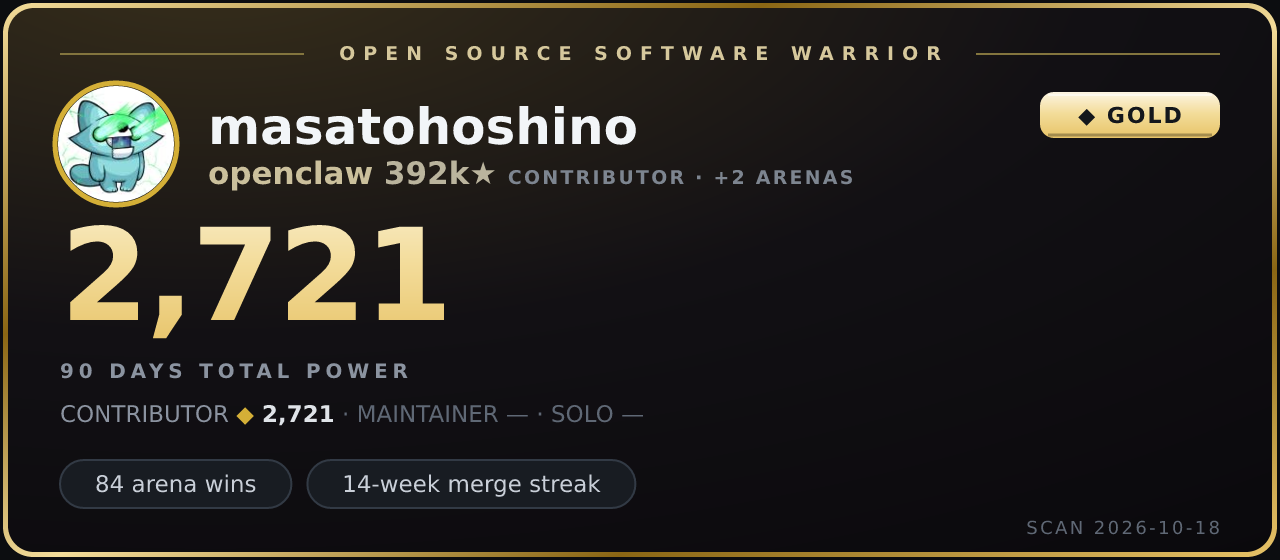
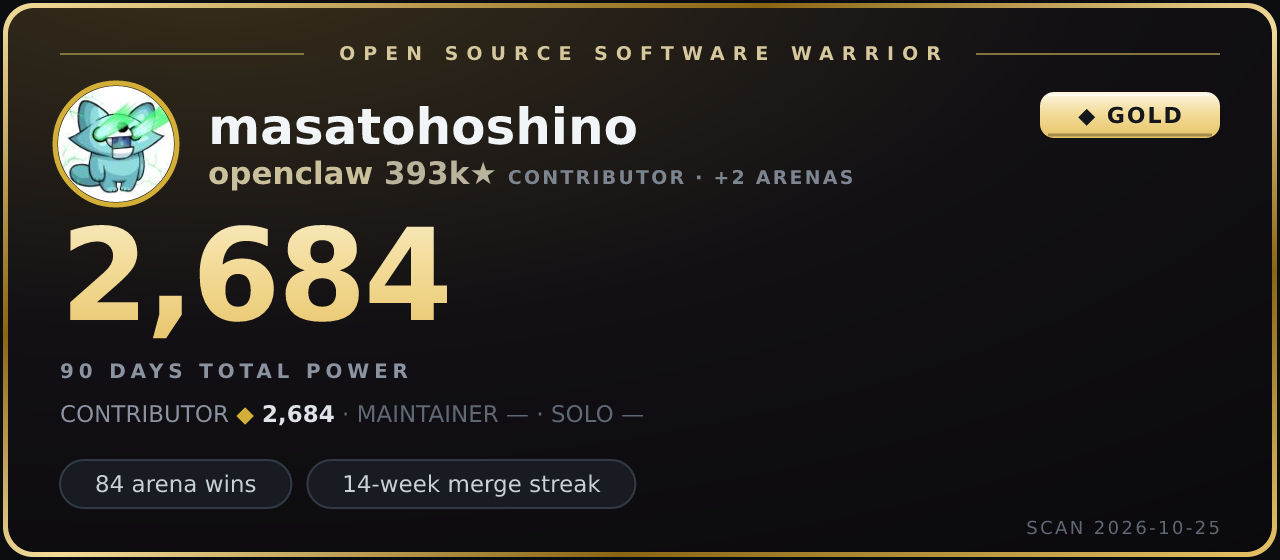
⚡ warrior scan 2026-10-25

Changed region(s): [[0.1562, 0.3946, 0.375, 0.5768], [0.2188, 0.7286, 0.2812, 0.7589], [0.3125, 0.3036, 0.3438, 0.3339]]

diff --git a/warrior/site/share-2026-10-25.html b/warrior/site/share-2026-10-25.html
@@ -1,0 +1,109 @@
+<!doctype html>
+<html lang="en">
+<head>
+<meta charset="utf-8">
+<meta name="viewport" content="width=device-width, initial-scale=1">
+<title>⚡ masatohoshino — OSS power 2,684 (GOLD)</title>
+<meta property="og:type" content="website">
+<meta property="og:title" content="⚡ masatohoshino — OSS power 2,684 (GOLD)">
+<meta property="og:description" content="Open Source Software Warrior — every contribution counts. Measured from public GitHub events.">
+<meta property="og:image" content="https://masatohoshino.github.io/masatohoshino/card-2026-10-25.png">
+<meta property="og:url" content="https://masatohoshino.github.io/masatohoshino/share-2026-10-25.html">
+<meta name="twitter:card" content="summary_large_image">
+<meta name="twitter:image" content="https://masatohoshino.github.io/masatohoshino/card-2026-10-25.png">
+<style>
+ body{margin:0;background:#0c0d10;color:#e6e4df;font-family:system-ui,sans-serif;
+   display:flex;flex-direction:column;align-items:center;gap:22px;padding:48px 16px}
+ .card svg{max-width:100%;height:auto}
+ a.btn{color:#0c0d10;background:#e6e4df;border-radius:10px;padding:10px 22px;
+   text-decoration:none;font-weight:700}
+ a{color:#9fb6d0} p{color:#8f8d86;font-size:13px;max-width:52ch;text-align:center}
+</style>
+</head>
+<body>
+<div class="card"><svg xmlns="http://www.w3.org/2000/svg" width="640" height="280"
+  viewBox="0 0 640 280" role="img" aria-label="OSS Warrior card for masatohoshino">
+  <defs>
+    <linearGradient id="frame" x1="0" y1="0" x2="1" y2="1">
+      <stop offset="0" stop-color="#f3dc9a"/><stop offset=".3" stop-color="#8a6614"/>
+      <stop offset=".52" stop-color="#f3dc9a"/><stop offset=".74" stop-color="#8a6614"/>
+      <stop offset="1" stop-color="#e7c368"/>
+    </linearGradient>
+    <radialGradient id="bg" cx="16%" cy="-10%" r="140%">
+      <stop offset="0" stop-color="#382f1b"/>
+      <stop offset=".5" stop-color="#121014"/><stop offset="1" stop-color="#0a090c"/>
+    </radialGradient>
+    <linearGradient id="num" x1="0" y1="0" x2="0" y2="1">
+      <stop offset="0" stop-color="#f8ecc7"/>
+      <stop offset=".42" stop-color="#f3dc9a"/><stop offset="1" stop-color="#e7c368"/>
+    </linearGradient>
+    <linearGradient id="plaque" x1="0" y1="0" x2="0" y2="1">
+      <stop offset="0" stop-color="#fcf5e3"/>
+      <stop offset=".46" stop-color="#f3dc9a"/><stop offset="1" stop-color="#e7c368"/>
+    </linearGradient>
+    <clipPath id="ava"><circle cx="58" cy="72" r="29"/></clipPath>
+  </defs>
+
+  <rect x="1.5" y="1.5" width="637" height="277" rx="15" fill="url(#frame)"/>
+  <rect x="4" y="4" width="632" height="272" rx="13" fill="url(#bg)"/>
+  
+
+  <text x="320" y="30" text-anchor="middle" font-family="ui-monospace,SFMono-Regular,Menlo,monospace" font-size="9.5"
+    font-weight="600" letter-spacing="4" fill="#d6c89c">OPEN SOURCE SOFTWARE WARRIOR</text>
+  <line x1="30" y1="27" x2="152" y2="27" stroke="#83753e" stroke-width="1"/>
+  <line x1="488" y1="27" x2="610" y2="27" stroke="#83753e" stroke-width="1"/>
+
[1 lines of base64/hex data omitted]
+  <circle cx="58" cy="72" r="30.5" fill="none" stroke="#d4af37" stroke-width="2.5"/>
+  
+
+  <text x="104" y="72" font-family="system-ui,-apple-system,'Segoe UI',sans-serif" font-size="25" font-weight="800"
+    fill="#f2f5f8">masatohoshino</text>
+  
+    <text x="104" y="92" font-family="system-ui,-apple-system,'Segoe UI',sans-serif" font-size="15.5" font-weight="700"
+      fill="#cbc09c">openclaw
+      <tspan font-weight="600" fill="#bab49d"> 393k★</tspan>
+      <tspan font-size="9.5" letter-spacing="1.1" fill="#7d8590">  CONTRIBUTOR · +2 ARENAS</tspan>
+    </text>
+
+  <g>
+    <rect x="520" y="46" width="90" height="23" rx="7" fill="url(#plaque)"/>
+    <line x1="524" y1="47.5" x2="606" y2="47.5"
+      stroke="rgba(255,255,255,.55)" stroke-width="1"/>
+    <line x1="524" y1="67.5" x2="606" y2="67.5"
+      stroke="rgba(0,0,0,.3)" stroke-width="1.5"/>
+    <text x="565" y="61.5" text-anchor="middle" font-family="ui-monospace,SFMono-Regular,Menlo,monospace"
+      font-size="11" font-weight="800" letter-spacing="1" fill="#14171c">◆ GOLD</text>
+  </g>
+
+  <text x="30" y="160" font-family="system-ui,-apple-system,'Segoe UI',sans-serif" font-size="64" font-weight="800"
+    letter-spacing="-1.5" fill="url(#num)">2,684</text>
+  <text x="30" y="189" font-family="ui-monospace,SFMono-Regular,Menlo,monospace" font-size="10" letter-spacing="2.4"
+    font-weight="600" fill="#8b93a0">90 DAYS TOTAL POWER</text>
+
+  <text x="30" y="211" font-family="ui-monospace,SFMono-Regular,Menlo,monospace" font-size="11.5"><tspan fill="#8b93a0">CONTRIBUTOR </tspan><tspan fill="#d4af37">◆</tspan><tspan fill="#dfe3e8" font-weight="600"> 2,684</tspan><tspan fill="#5f6875"> · </tspan><tspan fill="#5f6875">MAINTAINER —</tspan><tspan fill="#5f6875"> · </tspan><tspan fill="#5f6875">SOLO —</tspan></text>
+
+  
+  
+    <g transform="translate(30,230)">
+      <rect width="115.7" height="24" rx="12" fill="#181c22"
+        stroke="#323a45"/>
+      <text x="57.85" y="16" text-anchor="middle" font-family="system-ui,-apple-system,'Segoe UI',sans-serif"
+        font-size="11.5" fill="#c9cfd8">84 arena wins</text>
+    </g>
+    <g transform="translate(153.7,230)">
+      <rect width="164" height="24" rx="12" fill="#181c22"
+        stroke="#323a45"/>
+      <text x="82" y="16" text-anchor="middle" font-family="system-ui,-apple-system,'Segoe UI',sans-serif"
+        font-size="11.5" fill="#c9cfd8">14-week merge streak</text>
+    </g>
+
+  <text x="610" y="267" text-anchor="end" font-family="ui-monospace,SFMono-Regular,Menlo,monospace" font-size="9"
+    letter-spacing="1.2" fill="#5f6875">SCAN 2026-10-25</text>
+</svg></div>
+<a class="btn" href="https://x.com/intent/post?text=%E2%9A%A1%20My%20OSS%20power%20level%3A%202%2C684%20%E2%80%94%20RANK%20GOLD%0AEvery%20contribution%20counts.&amp;url=https%3A%2F%2Fmasatohoshino.github.io%2Fmasatohoshino%2Fshare-2026-10-25.html">Post to X</a>
+<p>Every figure derives from public GitHub events — reproducible by anyone.<br>
+<a href="https://github.com/masatohoshino/oss-warrior">⚡ Measure your own power level</a> ·
+<a href="scouter.html">🔍 Scan any account</a></p>
+</body>
+</html>

diff --git a/warrior/site/index.html b/warrior/site/index.html
@@ -3,14 +3,14 @@
 <head>
 <meta charset="utf-8">
 <meta name="viewport" content="width=device-width, initial-scale=1">
-<title>⚡ masatohoshino — OSS power 2,721 (GOLD)</title>
+<title>⚡ masatohoshino — OSS power 2,684 (GOLD)</title>
 <meta property="og:type" content="website">
-<meta property="og:title" content="⚡ masatohoshino — OSS power 2,721 (GOLD)">
+<meta property="og:title" content="⚡ masatohoshino — OSS power 2,684 (GOLD)">
 <meta property="og:description" content="Open Source Software Warrior — every contribution counts. Measured from public GitHub events.">
-<meta property="og:image" content="https://masatohoshino.github.io/masatohoshino/card-2026-10-18.png">
-<meta property="og:url" content="https://masatohoshino.github.io/masatohoshino/share-2026-10-18.html">
+<meta property="og:image" content="https://masatohoshino.github.io/masatohoshino/card-2026-10-25.png">
+<meta property="og:url" content="https://masatohoshino.github.io/masatohoshino/share-2026-10-25.html">
 <meta name="twitter:card" content="summary_large_image">
-<meta name="twitter:image" content="https://masatohoshino.github.io/masatohoshino/card-2026-10-18.png">
+<meta name="twitter:image" content="https://masatohoshino.github.io/masatohoshino/card-2026-10-25.png">
 <style>
  body{margin:0;background:#0c0d10;color:#e6e4df;font-family:system-ui,sans-serif;
    display:flex;flex-direction:column;align-items:center;gap:22px;padding:48px 16px}
@@ -62,7 +62,7 @@
   
     <text x="104" y="92" font-family="system-ui,-apple-system,'Segoe UI',sans-serif" font-size="15.5" font-weight="700"
       fill="#cbc09c">openclaw
-      <tspan font-weight="600" fill="#bab49d"> 392k★</tspan>
+      <tspan font-weight="600" fill="#bab49d"> 393k★</tspan>
       <tspan font-size="9.5" letter-spacing="1.1" fill="#7d8590">  CONTRIBUTOR · +2 ARENAS</tspan>
     </text>
 
@@ -77,11 +77,11 @@
   </g>
 
   <text x="30" y="160" font-family="system-ui,-apple-system,'Segoe UI',sans-serif" font-size="64" font-weight="800"
-    letter-spacing="-1.5" fill="url(#num)">2,721</text>
+    letter-spacing="-1.5" fill="url(#num)">2,684</text>
   <text x="30" y="189" font-family="ui-monospace,SFMono-Regular,Menlo,monospace" font-size="10" letter-spacing="2.4"
     font-weight="600" fill="#8b93a0">90 DAYS TOTAL POWER</text>
 
-  <text x="30" y="211" font-family="ui-monospace,SFMono-Regular,Menlo,monospace" font-size="11.5"><tspan fill="#8b93a0">CONTRIBUTOR </tspan><tspan fill="#d4af37">◆</tspan><tspan fill="#dfe3e8" font-weight="600"> 2,721</tspan><tspan fill="#5f6875"> · </tspan><tspan fill="#5f6875">MAINTAINER —</tspan><tspan fill="#5f6875"> · </tspan><tspan fill="#5f6875">SOLO —</tspan></text>
+  <text x="30" y="211" font-family="ui-monospace,SFMono-Regular,Menlo,monospace" font-size="11.5"><tspan fill="#8b93a0">CONTRIBUTOR </tspan><tspan fill="#d4af37">◆</tspan><tspan fill="#dfe3e8" font-weight="600"> 2,684</tspan><tspan fill="#5f6875"> · </tspan><tspan fill="#5f6875">MAINTAINER —</tspan><tspan fill="#5f6875"> · </tspan><tspan fill="#5f6875">SOLO —</tspan></text>
 
   
   
@@ -99,9 +99,9 @@
     </g>
 
   <text x="610" y="267" text-anchor="end" font-family="ui-monospace,SFMono-Regular,Menlo,monospace" font-size="9"
-    letter-spacing="1.2" fill="#5f6875">SCAN 2026-10-18</text>
+    letter-spacing="1.2" fill="#5f6875">SCAN 2026-10-25</text>
 </svg></div>
-<a class="btn" href="https://x.com/intent/post?text=%E2%9A%A1%20My%20OSS%20power%20level%3A%202%2C721%20%E2%80%94%20RANK%20GOLD%0AEvery%20contribution%20counts.&amp;url=https%3A%2F%2Fmasatohoshino.github.io%2Fmasatohoshino%2Fshare-2026-10-18.html">Post to X</a>
+<a class="btn" href="https://x.com/intent/post?text=%E2%9A%A1%20My%20OSS%20power%20level%3A%202%2C684%20%E2%80%94%20RANK%20GOLD%0AEvery%20contribution%20counts.&amp;url=https%3A%2F%2Fmasatohoshino.github.io%2Fmasatohoshino%2Fshare-2026-10-25.html">Post to X</a>
 <p>Every figure derives from public GitHub events — reproducible by anyone.<br>
 <a href="https://github.com/masatohoshino/oss-warrior">⚡ Measure your own power level</a> ·
 <a href="scouter.html">🔍 Scan any account</a></p>

diff --git a/README.md b/README.md
@@ -30,7 +30,7 @@ and reusable parts intended for public release.
 Mostly for fun.
 
 <!-- oss-warrior:start -->
-[![OSS Warrior card](warrior/card.svg)](https://x.com/intent/post?text=%E2%9A%A1%20My%20OSS%20power%20level%3A%202%2C721%20%E2%80%94%20RANK%20GOLD%0AEvery%20contribution%20counts.&url=https%3A%2F%2Fmasatohoshino.github.io%2Fmasatohoshino%2Fshare-2026-10-18.html)
+[![OSS Warrior card](warrior/card.svg)](https://x.com/intent/post?text=%E2%9A%A1%20My%20OSS%20power%20level%3A%202%2C684%20%E2%80%94%20RANK%20GOLD%0AEvery%20contribution%20counts.&url=https%3A%2F%2Fmasatohoshino.github.io%2Fmasatohoshino%2Fshare-2026-10-25.html)
 
 🔍 [**Scan any GitHub account with the scouter**](https://masatohoshino.github.io/masatohoshino/scouter.html)
 
@@ -40,11 +40,11 @@ Mostly for fun.
 
 | League | Power | Rank | Next rank |
 |---|---:|---|---|
-| CONTRIBUTOR | 2,721 | GOLD (Mainstay) | PLATINUM at 3,700 (74%) |
+| CONTRIBUTOR | 2,684 | GOLD (Mainstay) | PLATINUM at 3,700 (73%) |
 | MAINTAINER | 0 | UNCHARTED | BRONZE at 175 (0%) |
 | SOLO | 0 | UNCHARTED | BRONZE at 175 (0%) |
 
-**TOTAL POWER 2,721** — GOLD · PLATINUM at 3,700 (74%) · window 2026-07-20 → 2026-10-18 (90d-normalized ×1.00)
+**TOTAL POWER 2,684** — GOLD · PLATINUM at 3,700 (73%) · window 2026-07-27 → 2026-10-25 (90d-normalized ×1.00)
 
 
 **Badges**

diff --git a/warrior/table.md b/warrior/table.md
@@ -2,11 +2,11 @@
 
 | League | Power | Rank | Next rank |
 |---|---:|---|---|
-| CONTRIBUTOR | 2,721 | GOLD (Mainstay) | PLATINUM at 3,700 (74%) |
+| CONTRIBUTOR | 2,684 | GOLD (Mainstay) | PLATINUM at 3,700 (73%) |
 | MAINTAINER | 0 | UNCHARTED | BRONZE at 175 (0%) |
 | SOLO | 0 | UNCHARTED | BRONZE at 175 (0%) |
 
-**TOTAL POWER 2,721** — GOLD · PLATINUM at 3,700 (74%) · window 2026-07-20 → 2026-10-18 (90d-normalized ×1.00)
+**TOTAL POWER 2,684** — GOLD · PLATINUM at 3,700 (73%) · window 2026-07-27 → 2026-10-25 (90d-normalized ×1.00)
 
 
 **Badges**
